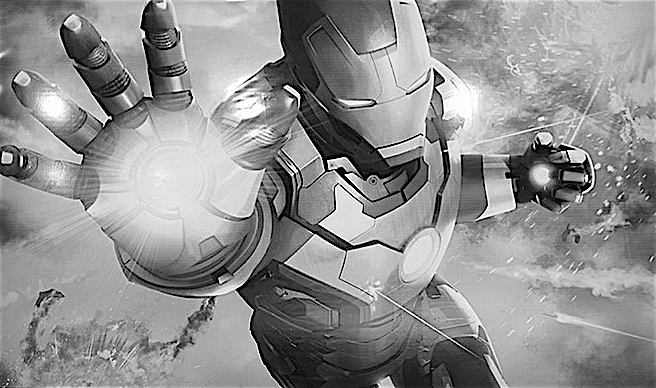
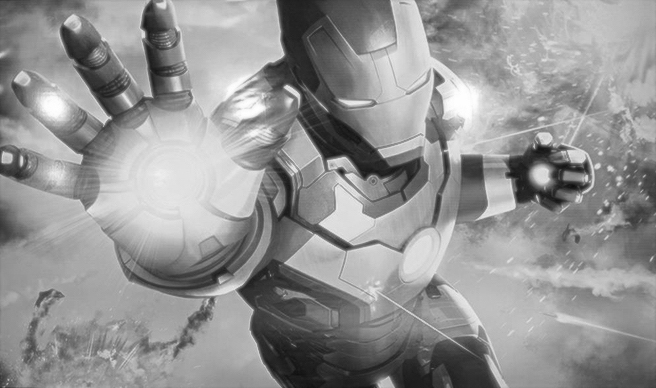
added parallax feature plus background image

diff --git a/personal-site/src/App.js b/personal-site/src/App.js
@@ -20,47 +20,38 @@ class App extends Component {
   render() {
     return (
       <div>
-      <Navbar inverse fixedTop>
+      <Navbar inverse fixedTop className="navbar">
           <Grid>
-          <Navbar.Header>
-            <Navbar.Brand>
-              <a href="#">Peter Duke</a>
-            </Navbar.Brand>
-            <Navbar.Toggle />
-          </Navbar.Header>
-          <Navbar.Collapse>
-          <Nav pullRight>
-            <NavItem eventKey={1} href="#">Link</NavItem>
-            <NavItem eventKey={2} href="#">Link</NavItem>
-            <NavItem eventKey={2} href="#">Link</NavItem>
-          </Nav>
-          </Navbar.Collapse>
+            <Navbar.Header>
+              <Navbar.Brand>
+                <a href="#">Peter Duke</a>
+              </Navbar.Brand>
+              <Navbar.Toggle />
+            </Navbar.Header>
+            <Navbar.Collapse>
+            <Nav pullRight>
+              <NavItem eventKey={1} href="#">Link</NavItem>
+              <NavItem eventKey={2} href="#">Link</NavItem>
+              <NavItem eventKey={2} href="#">Link</NavItem>
+            </Nav>
+            </Navbar.Collapse>
           </Grid>
         </Navbar>
-        {/* <Jumbotron>
-          <Grid>
-            <h1>Welcome to React</h1>
-            <p>
-              <Button
-                bsStyle="success"
-                bsSize="large"
-                href="http://react-bootstrap.github.io/components.html"
-                target="_blank">
-                View React Bootstrap Docs
-              </Button>
-            </p>
-          </Grid>
-        </Jumbotron> */}
-
         {/* Header Section */}
-        <Grid fluid bsClass='container' className="container-fluid bg-1 text-center wrapper">
-            <h3 className="margin">Who Am I?</h3>
-            <Image rounded responsive src={profilePic} className="center-block" alt="profile-pic" />
-            <h3>I'm an adventurer</h3>
+
+        <Jumbotron>
+          <Grid fluid className="parallax text-center">
+          <div className="text-center">
+            <h1 className="margin title">Peter Duke</h1>
+            {/* <Image rounded responsive src={profilePic} className="center-block" alt="profile-pic" /> */}
+            <h2 className="margin subhead">Web Developer</h2>
+          </div>
+          </Grid>
+          <div className="overlay"></div>
+        </Jumbotron>
+        <Grid fluid bsClass='container' className="text-center">
+          <p>Here's something else</p>
         </Grid>
-
-
-
       </div>
     );
   }

diff --git a/personal-site/src/index.css b/personal-site/src/index.css
@@ -1,7 +1,8 @@
 body {
       font: 20px "Montserrat", sans-serif;
       line-height: 1.8;
-      color: #f5f6f7;
+      color: #ffffff;
+      padding-top: 25px;
     }
 
     p {font-size: 16px;}
@@ -32,18 +33,20 @@ body {
       padding-bottom: 70px;
     }
 
-    .bg-1 {
-      background: linear-gradient(rgba(0, 0, 0, 0), rgba(0, 0, 0, 0)),
-                rgba(0,0,0,0) url('../images/iron-man.jpg') no-repeat center;
+    /*.bg-1 {
+      background-image: url('../images/iron-man.jpg');
       background-repeat: no-repeat;
       background-attachment: scroll;
       background-position: center center;
+      background-size: cover;
       -webkit-background-size: cover;
       -moz-background-size: cover;
       background-size: cover;
       -o-background-size: cover;
       text-align: center;
-    }
+      height: auto;
+      color: black;
+    }*/
 
 
     .bg-2 {
@@ -59,4 +62,49 @@ body {
     .bg-4 {
       background-color: #2f2f2f;
       color: #ffffff;
+    }
+
+
+    .parallax {
+    /* The image used */
+    background-image: url('../images/iron-man.jpg');
+
+    /* Set a specific height */
+    min-height: 600px;
+
+    /* Create the parallax scrolling effect */
+    background-attachment: fixed;
+    background-position: center;
+    background-repeat: no-repeat;
+    background-size: cover;
+    }
+
+    .jumbotron .overlay {
+      background-color: #22A39F;
+      position: absolute;
+      top: 0px;
+      bottom: 0px;
+      left: 0px;
+      right: 0px;
+      opacity: 0.75;
+      filter: alpha(opacity=75);
+      z-index: 1;
+    }
+
+    .jumbotron .title {
+    padding-bottom: 20px;
+    position: absolute;
+    border-bottom: 1px solid #FFFFFF;
+    border-bottom-color: rgba(255,255,255,0.35);
+    display: inline-block;
+    z-index: 2;
+    }
+
+    .jumbotron .subhead {
+    padding-bottom: 20px;
+    position: absolute;
+    border-bottom: 1px solid #FFFFFF;
+    border-bottom-color: rgba(255,255,255,0.35);
+    display: inline-block;
+    z-index: 2;
     }
